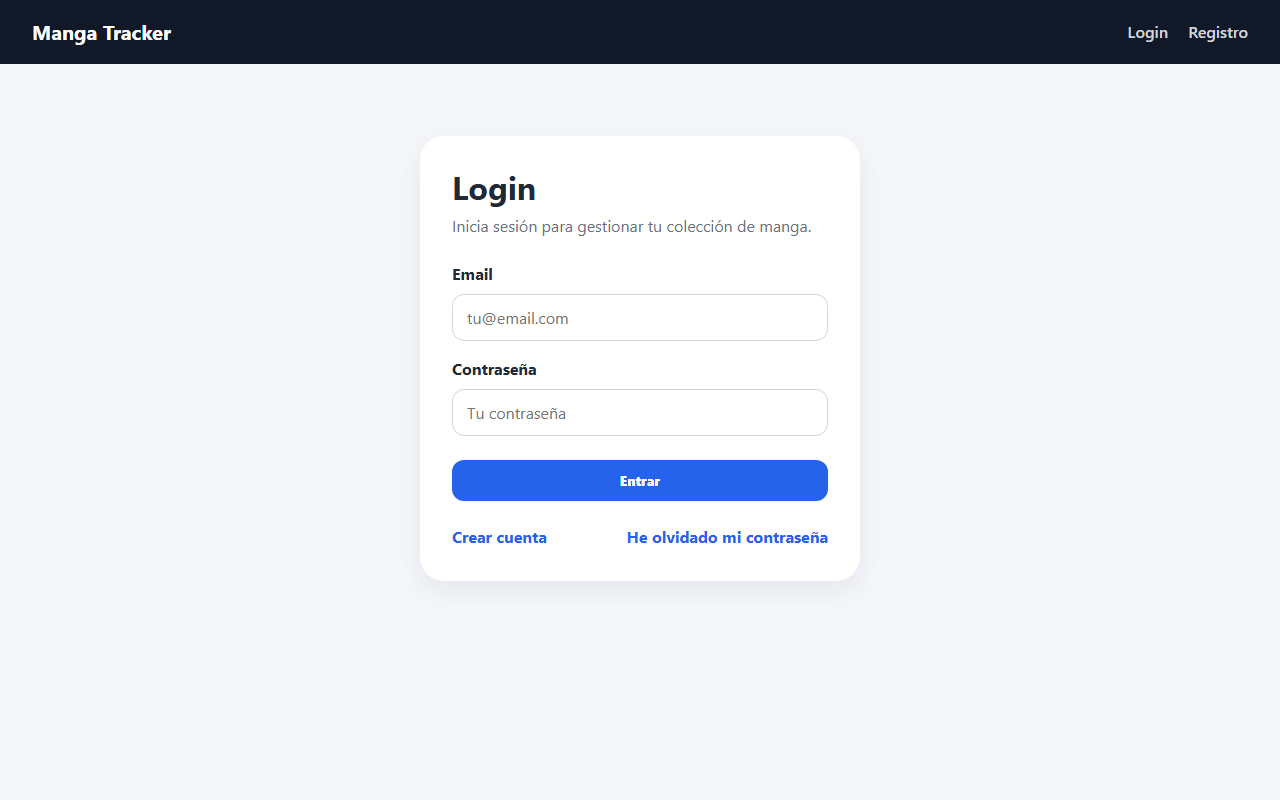
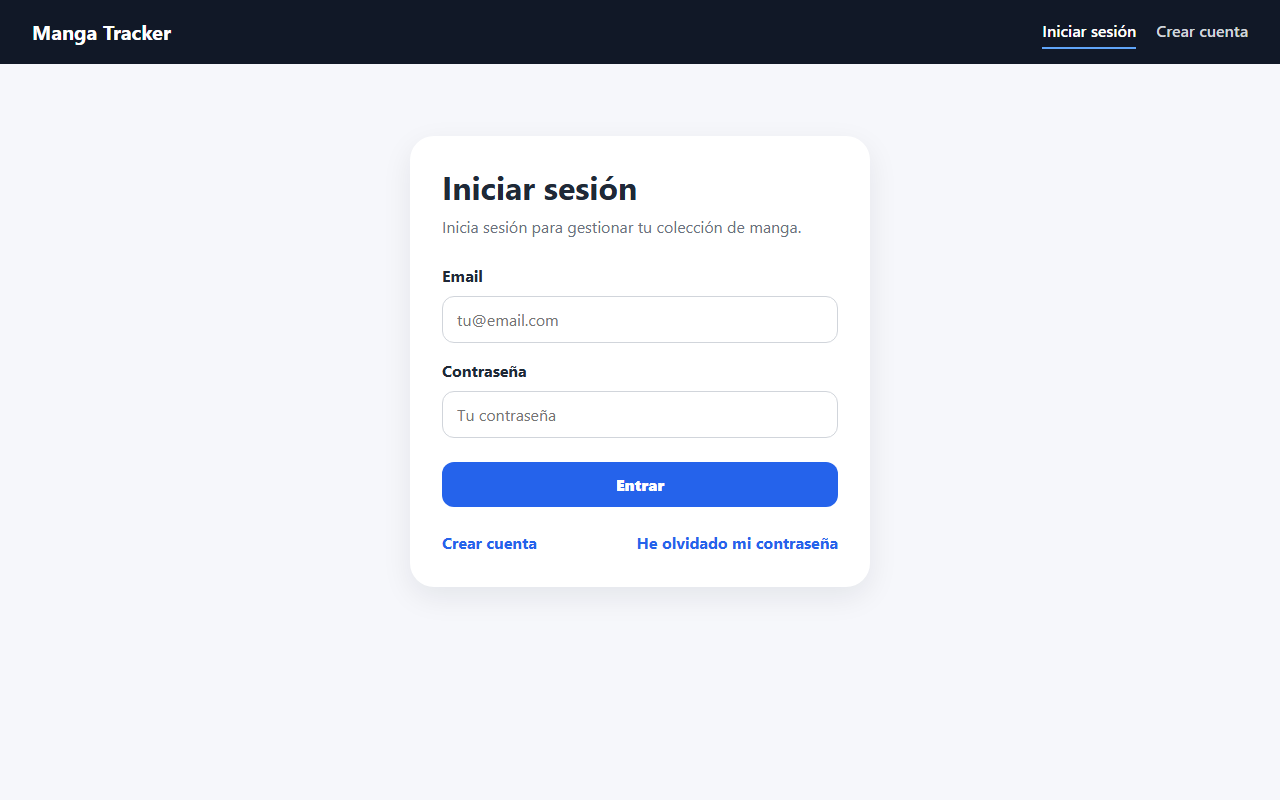
docs: document the new behaviour and refresh the screenshots

Changed region(s): [[0.3438, 0.2188, 0.625, 0.5312], [0.3438, 0.5625, 0.6562, 0.6875], [0.8125, 0.0312, 0.9688, 0.0625]]

diff --git a/README.md b/README.md
@@ -22,15 +22,17 @@ Las capturas son de la aplicación real y se regeneran con Playwright (`frontend
 ## Qué demuestra este proyecto
 
 * **Arquitectura por capas sin ceremonia.** Domain, Application, Infrastructure y Api con dependencias hacia el dominio; casos de uso explícitos sin MediatR; repositorios específicos, un [Unit of Work](src/MangaTracker.Infrastructure/Persistence/EfUnitOfWork.cs) y [consultas de lectura](src/MangaTracker.Infrastructure/Queries/CollectionQueries.cs) proyectadas en SQL.
-* **Seguridad pensada y probada.** Revocación de JWT al cambiar la contraseña con un [`SecurityStamp`](src/MangaTracker.Api/Auth/SecurityStampValidator.cs); tokens de un solo uso guardados como hash; sin enumeración de cuentas (misma respuesta y mismo coste); protección SSRF en el [cliente de Comic Vine](src/MangaTracker.Infrastructure/ExternalServices/ComicVine/ComicVineClient.cs); rate limiting por usuario; configuración validada al arrancar.
+* **Seguridad pensada y probada.** Revocación de JWT al cambiar la contraseña con un [`SecurityStamp`](src/MangaTracker.Api/Auth/SecurityStampValidator.cs); tokens de un solo uso guardados como hash; sin enumeración de cuentas (misma respuesta y mismo coste, con los correos enviados [en segundo plano](src/MangaTracker.Infrastructure/Email/BackgroundEmailSender.cs) para que el SMTP no delate qué emails existen); protección SSRF en el [cliente de Comic Vine](src/MangaTracker.Infrastructure/ExternalServices/ComicVine/ComicVineClient.cs); rate limiting por usuario; configuración validada al arrancar.
 * **Datos externos que fallan.** Reintentos, timeouts y circuit breaker con Polly; 404 frente a 503; importación reanudable e idempotente; importaciones simultáneas resueltas con el índice único y un reintento.
+* **Un buen cliente de una API ajena.** Las peticiones a Comic Vine se espacian al menos un segundo (su límite real, según su foro), el `420` con el que limita no se reintenta y abre el circuito, `field_list` pide solo los campos usados, y los tomos se leen en páginas de 100: importar un volumen de 193 tomos cuesta 3 peticiones en lugar de 194.
+* **Concurrencia probada contra SQL Server.** Un enlace de un solo uso enviado por cinco peticiones a la vez solo funciona una vez (concurrencia optimista sobre `UsedAt`); el test reproduce la carrera y fallaba antes del arreglo.
 * **Tests en tres niveles.** Unitarios, integración contra SQL Server real con `WebApplicationFactory` (autenticación, IDOR, concurrencia, caducidad de tokens) y end-to-end con Playwright. Cobertura de líneas del 80 al 91 % según el proyecto.
 * **CI que bloquea.** Build con warnings como errores, auditoría de dependencias vulnerables y tests contra un contenedor de SQL Server en cada push.
 * **Decisiones documentadas.** Lo que no se ha hecho también está razonado: [decisiones y limitaciones conocidas](#decisiones-y-limitaciones-conocidas).
 
 ## Funcionalidades
 
-* Registro con confirmación por email, login, cambio y recuperación de contraseña (correos reales con Brevo).
+* Registro con confirmación por email (y reenvío del enlace), login, cambio y recuperación de contraseña (correos reales con Brevo).
 * Búsqueda de ediciones en Comic Vine, vista previa e importación con todos sus tomos.
 * Colecciones por usuario: marcar tomos uno a uno o todos, ver pendientes de todas las colecciones, eliminar colecciones.
 * Sincronización automática con Comic Vine para incorporar tomos nuevos.
@@ -49,7 +51,7 @@ Las capturas son de la aplicación real y se regeneran con Playwright (`frontend
 * ASP.NET Core Health Checks
 * SMTP para envío de correos
 * Microsoft.Extensions.Http.Resilience (Polly)
-* xUnit, FluentAssertions, NSubstitute
+* xUnit, AwesomeAssertions, NSubstitute
 * WebApplicationFactory contra SQL Server real
 
 ### Frontend
@@ -167,7 +169,7 @@ Incluye:
 * Hashing de contraseñas.
 * Hashing de tokens.
 * Envío de correos por consola en desarrollo.
-* Envío de correos por SMTP en producción.
+* Envío de correos por SMTP en producción, desde una cola en segundo plano.
 * Servicio en background para limpieza de usuarios no confirmados y tokens expirados.
 
 ### `MangaTracker.Api`
@@ -295,6 +297,8 @@ Implementaciones:
 
 Esto permite usar logs en desarrollo y correos reales en producción.
 
+Los casos de uso no envían el correo dentro de la petición: `BackgroundEmailSender` lo deja en una cola en memoria y `EmailDispatcherService` lo envía con el transporte real. Así la recuperación de contraseña tarda lo mismo exista o no la cuenta (un SMTP lento delataría los emails registrados), y un fallo del SMTP no convierte en error una operación ya guardada, como confirmar la cuenta.
+
 ## Seguridad y configuración
 
 El proyecto usa configuración externa para secretos.
@@ -329,10 +333,11 @@ Ejemplos:
 * Importación desde Comic Vine.
 * Sincronización de colecciones.
 
-Esto ayuda a proteger la API y a no abusar de Comic Vine.
+Esto ayuda a proteger la API y a no abusar de Comic Vine. Además, el cliente de Comic Vine respeta por su cuenta el ritmo que exige el proveedor (una petición por segundo para todo el proceso), con independencia de cuántos usuarios haya.
 
 La partición depende del tipo de endpoint:
 
+* La sincronización tiene su propio límite: la pantalla de colecciones sincroniza en cada visita y, si compartiera cupo con la importación, navegar por la app agotaría las importaciones del minuto.
 * Endpoints autenticados (catálogo, importación, sincronización): límite por usuario, a partir del id del JWT. No se puede falsificar y no depende de los proxies que haya delante de la API.
 * Endpoints anónimos (login, registro, recuperación de contraseña): límite por IP del cliente.
 
@@ -348,7 +353,9 @@ Ejemplos:
 * `NotFoundException` -> `404 Not Found`
 * `ConflictException` -> `409 Conflict`
 * `DomainException` -> `400 Bad Request`
-* Errores inesperados -> `500 Internal Server Error`
+* Errores inesperados -> `500 Internal Server Error`, con un mensaje genérico
+
+Todas las respuestas de error llevan un `traceId` para encontrar la petición en los logs. Una petición que el cliente cancela (cierra la pestaña) no se registra como error del servidor.
 
 En Angular, los errores se procesan con un helper común para mostrar mensajes claros al usuario.
 
@@ -358,16 +365,13 @@ El frontend está construido con Angular moderno.
 
 Características:
 
-* Standalone components.
-* Signals.
-* Templates con `@if` y `@for`.
-* Servicios separados para API.
-* Interceptor JWT.
-* Guards de autenticación.
-* Diseño responsive.
-* Cards unificadas para catálogo, colecciones, pendientes y detalle.
-* Menú de usuario con cierre al hacer click fuera.
-* Interceptor que solo envía el JWT a la propia API.
+* Standalone components, signals y templates con `@if` y `@for`.
+* Rutas con carga diferida (`loadComponent`): el bundle inicial solo lleva el layout.
+* Servicios separados para la API, guards de autenticación e interceptor que solo envía el JWT a la propia API.
+* Textos en español en la interfaz: la API responde en inglés y [`api-error.ts`](frontend/manga-tracker-web/src/app/core/http/api-error.ts) traduce los errores que el usuario puede resolver; el resto se sustituye por el mensaje de la pantalla.
+* Reglas de contraseña comprobadas también en el formulario, antes de enviar.
+* Diseño responsive, portadas con carga diferida (`loading="lazy"`) y fechas en formato español.
+* Accesibilidad básica: `autocomplete` en formularios, enlace activo con `aria-current`, alertas con `role="alert"`.
 
 ## Comunicación frontend-backend
 
@@ -543,16 +547,18 @@ dotnet ef migrations script --idempotent `
 Compromisos asumidos a propósito para el tamaño actual del proyecto, con lo que cambiaría si creciera:
 
 * **JWT en `localStorage`.** Un XSS podría leer el token. La alternativa habitual son cookies `HttpOnly` + `Secure` + `SameSite`, pero el frontend (`vercel.app`) y la API (`runasp.net`) están en dominios distintos: la cookie sería de terceros, y los navegadores ya las bloquean o las están retirando. Hacerlo bien exige servir ambos bajo el mismo dominio o un BFF, más la protección CSRF correspondiente. Mientras tanto se reduce el riesgo con tokens de vida corta, revocación por `SecurityStamp`, sanitización de Angular (versión parcheada) y un interceptor que solo envía el token a la API.
-* **Correo enviado después de guardar.** Si el SMTP falla tras el `SaveChanges`, el usuario existe pero no recibe el enlace (puede pedir otro). La solución robusta es un *outbox*: guardar el correo pendiente en la misma transacción y enviarlo desde un worker con reintentos.
+* **Cola de correos en memoria.** Los correos se envían fuera de la petición, pero la cola no es persistente: si el proceso se reinicia con correos pendientes, se pierden (el usuario puede pedir otro enlace) y un fallo del SMTP solo se registra en el log. La solución robusta es un *outbox*: guardar el correo pendiente en la misma transacción y enviarlo desde un worker con reintentos.
 * **`Series` agrupada por título.** Comic Vine no tiene un identificador para la obra por encima del volumen, así que las ediciones se agrupan por nombre. Dos obras distintas con el mismo título acabarían en la misma serie; `Edition` y `Tome` sí usan IDs de Comic Vine.
-* **Importación síncrona y secuencial.** Hasta 250 peticiones de detalle dentro de una petición HTTP. Paralelizarlas no ayuda: Comic Vine limita por recurso y hora. Para volúmenes grandes lo correcto sería una importación en segundo plano con progreso; hoy la reanudación y la idempotencia hacen que un fallo a mitad no pierda trabajo.
+* **Importación síncrona.** Un volumen se importa dentro de la petición HTTP con una petición a Comic Vine por cada 100 tomos (máximo 250 tomos). Como Comic Vine solo admite una petición por segundo, todas las del proceso pasan por un turnero común ([`ComicVineRequestGate`](src/MangaTracker.Infrastructure/ExternalServices/ComicVine/ComicVineRequestGate.cs)); con muchos usuarios a la vez la espera crece, y si supera unos segundos la API responde 503 en lugar de dejar la petición colgada. Con más tráfico lo correcto sería una importación en segundo plano con progreso; hoy la reanudación y la idempotencia hacen que un fallo a mitad no pierda trabajo.
+* **Turnero en memoria.** Solo coordina las peticiones de una instancia de la API. Con varias instancias haría falta un limitador compartido (por ejemplo en Redis).
+* **Mensajes de la API en inglés.** La interfaz los traduce comparando el texto. Con más pantallas o idiomas, la API devolvería un código de error estable en los `ProblemDetails` y el frontend traduciría por código.
 * **Validación del `SecurityStamp` en cada petición.** Una consulta por clave primaria por petición autenticada. Con más tráfico se cachearía unos segundos.
 * **Vulnerabilidades en herramientas de desarrollo.** `npm audit` reporta avisos dentro de Angular CLI/build (no llegan al navegador) que solo se pueden corregir con versiones nuevas de Angular. El CI audita las dependencias de producción.
 
 ## Próximas mejoras posibles
 
 * Importación en segundo plano para volúmenes grandes.
-* Outbox para el envío de correos.
+* Outbox persistente para el envío de correos.
 * Frontend y API bajo el mismo dominio para pasar el token a una cookie `HttpOnly`.
 * Mejorar filtros de búsqueda y ordenación de colecciones.
 * Añadir dashboard/resumen inicial y favoritos o wishlist.
